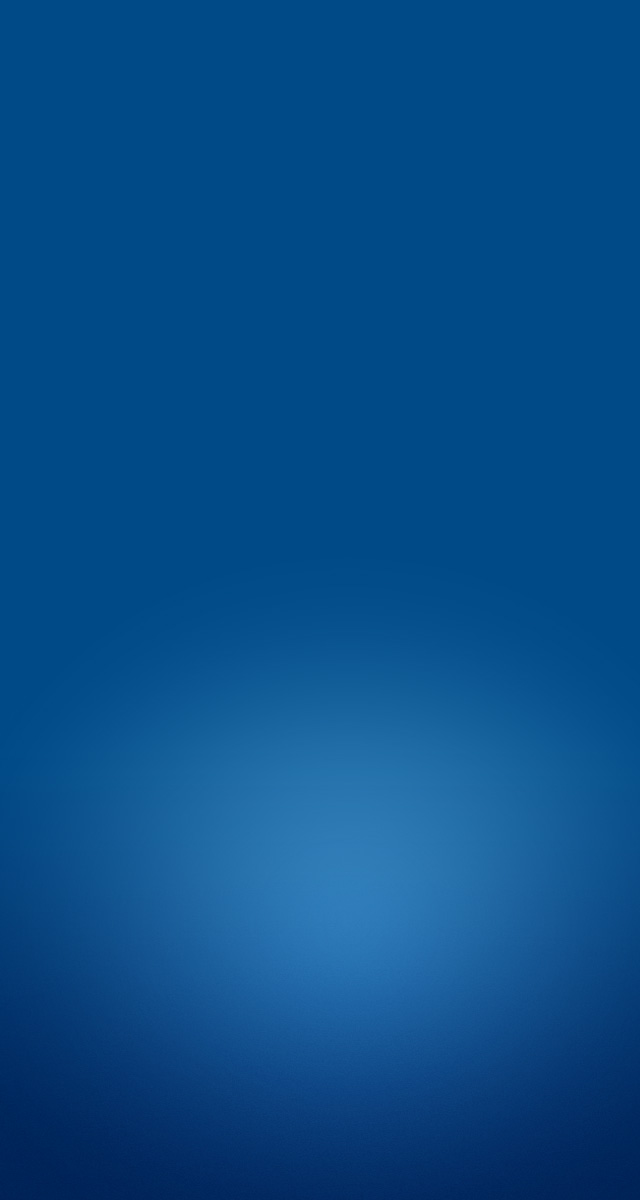
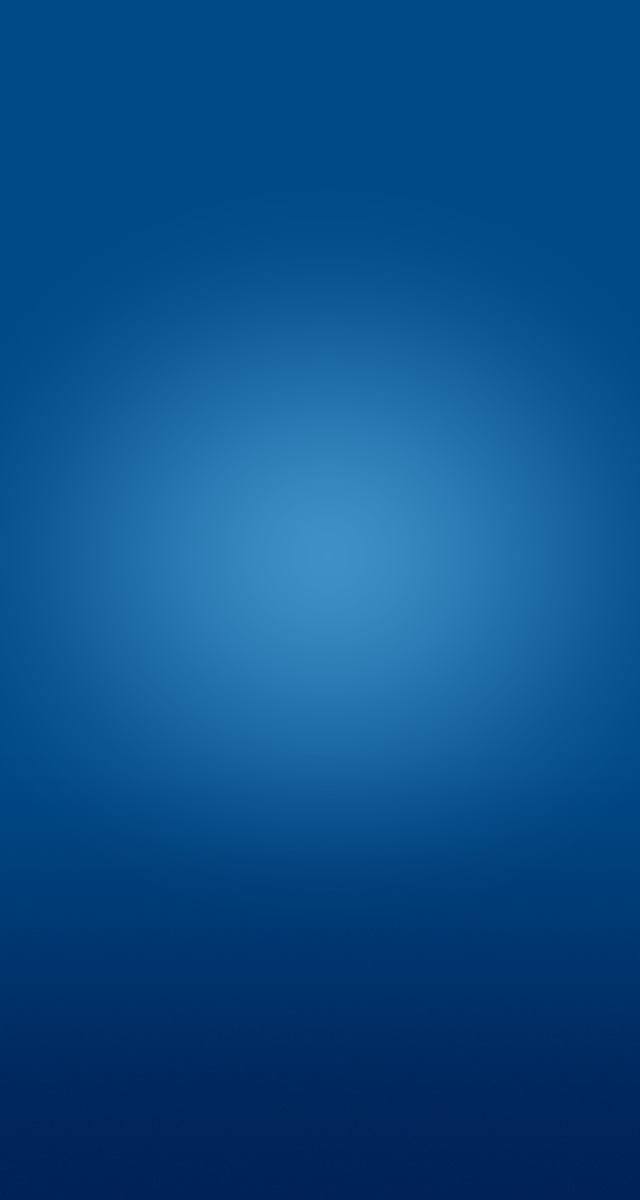
bg & slideup & falsh 2s

diff --git a/index.html b/index.html
@@ -157,6 +157,7 @@
                         <img src="./img/xingge.png" alt="">
                     </div>
                     <div class="other_handle">
+                        <img class="slideup_icon" src="./img/slideup_icon.png" alt="">
                         <img class="other_handle_btn" src="./img/pc_bottom_handle.png" alt="">
                         <span>快来体验其它超能瓶</span>
                     </div>
@@ -313,6 +314,7 @@
                         <img src="./img/ganguan_pc_bottle.png" alt="">
                     </div>
                     <div class="other_handle">
+                        <img class="slideup_icon" src="./img/slideup_icon.png" alt="">
                         <img class="other_handle_btn" src="./img/pc_bottom_handle.png" alt="">
                         <span>快来体验其它超能瓶</span>
                     </div>
@@ -467,6 +469,7 @@
                         <img src="./img/wujie_pc_bottle.png" alt="">
                     </div>
                     <div class="other_handle">
+                        <img class="slideup_icon" src="./img/slideup_icon.png" alt="">
                         <img class="other_handle_btn" src="./img/pc_bottom_handle.png" alt="">
                         <span>快来体验其它超能瓶</span>
                     </div>
@@ -621,6 +624,7 @@
                         <img src="./img/huancai.png" alt="">
                     </div>
                     <div class="other_handle">
+                        <img class="slideup_icon" src="./img/slideup_icon.png" alt="">
                         <img class="other_handle_btn" src="./img/pc_bottom_handle.png" alt="">
                         <span>快来体验其它超能瓶</span>
                     </div>
@@ -772,6 +776,7 @@
                         <img src="./img/chaobo.png" alt="">
                     </div>
                     <div class="other_handle">
+                        <img class="slideup_icon" src="./img/slideup_icon.png" alt="">
                         <img class="other_handle_btn" src="./img/pc_bottom_handle.png" alt="">
                         <span>快来体验其它超能瓶</span>
                     </div>

diff --git a/style/howe.css b/style/howe.css
@@ -842,8 +842,8 @@
   	animation-name: flash;
   	-webkit-animation-iteration-count: infinite;
   	animation-iteration-count: infinite;
-  	-webkit-animation-duration: 1.5s;
-	animation-duration: 1.5s;
+  	-webkit-animation-duration: 2s;
+	animation-duration: 2s;
 	-webkit-animation-fill-mode: both;
 	animation-fill-mode: both;
 }
@@ -865,6 +865,59 @@
   25%, 75% {
     opacity: 0;
   }
+}
+.slideup_icon{
+	position: absolute;
+	left: 50%;
+	top: -29px;
+	margin-left: -10px;
+	-webkit-animation: Topto 1.6s ease-out infinite;
+    -moz-animation: Topto 1.6s ease-out infinite;
+    -o-animation: Topto 1.6s ease-out infinite;
+}
+@-webkit-keyframes Topto {
+    0% {
+    	-webkit-transform: translate(0, 0);
+        opacity: 0
+    }
+    20% {
+        -webkit-transform: translate(0, -10px);
+        opacity: 1
+    }
+    100% {
+        -webkit-transform: translate(0, -20px);
+        opacity: 0
+    }
+}
+
+@-moz-keyframes Topto {
+    0% {
+    	-webkit-transform: translate(0, 0);
+        opacity: 0
+    }
+    20% {
+        -webkit-transform: translate(0, -10px);
+        opacity: 1
+    }
+    100% {
+        -webkit-transform: translate(0, -20px);
+        opacity: 0
+    }
+}
+
+@-o-keyframes Topto {
+    0% {
+    	-webkit-transform: translate(0, 0);
+        opacity: 0
+    }
+    20% {
+        -webkit-transform: translate(0, -10px);
+        opacity: 1
+    }
+    100% {
+        -webkit-transform: translate(0, -20px);
+        opacity: 0
+    }
 }
 @media (device-height:568px) and (-webkit-min-device-pixel-ratio:2){/* 兼容iphone5 */
     .ip5.list_bottle.huancai_bottle,.ip5.list_bottle.wujie_bottle{
